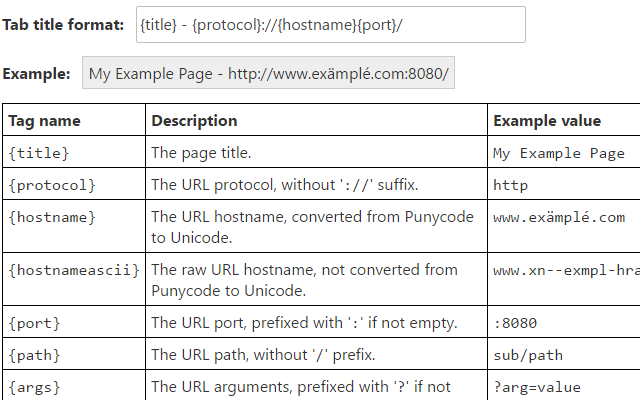
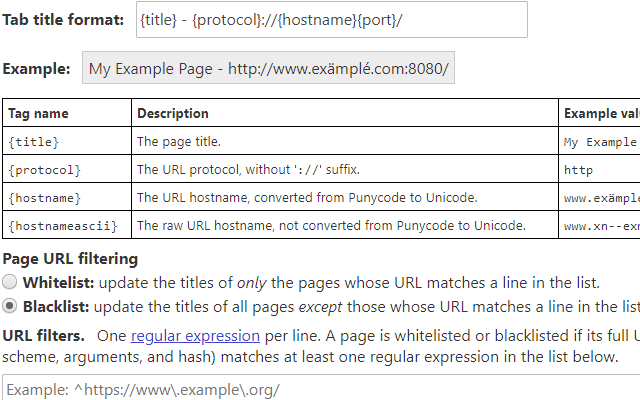
urlintitle - releases version 3.0.0 with URL filtering options

Changed region(s): [[0.0, 0.24, 1.0, 1.0], [0.0, 0.0, 0.8438, 0.21], [0.0, 0.03, 0.1875, 0.09]]

diff --git a/urlintitle/src/options.html b/urlintitle/src/options.html
@@ -6,7 +6,7 @@
   <style>
     body {
       font-size: 16px;
-      min-width: 700px;
+      min-width: 750px;
     }
 
     th, td {
@@ -31,7 +31,24 @@
     }
 
     table {
+      width: 100%;
       border-collapse: collapse;
+      font-size: smaller;
+    }
+
+    .top-separator {
+      margin-top: .5em;
+    }
+
+    input[type="radio"], label.radio {
+      font-weight: normal;
+      vertical-align: middle;
+    }
+
+    textarea {
+      width: 100%;
+      height: 5em;
+      display: block;
     }
 
     #status {
@@ -49,7 +66,7 @@
 
   <p><label>Example:</label> <span id="example"></span></p>
 
-  <table id="tags-table" cellpadding="2" cellspacing="0" border="1" bordercolor="#000">
+  <table id="tags-table" border="1" bordercolor="#000">
   <tr>
     <th>Tag name</th>
     <th>Description</th>
@@ -57,11 +74,32 @@
   </tr>
   </table>
 
-  <p>
-    <button id="restore">Restore to default</button>
+  <div class="top-separator">
+    <b>Page URL filtering</b>
+  </div>
+  <input type="radio" name="url-filter-type"
+         id="url-filter-type-whitelist" value="whitelist">
+  <label for="url-filter-type-whitelist" class="radio">
+    <b>Whitelist:</b> update the titles of <i>only</i> the pages whose URL matches a line in the list.
+  </label>
+  <br>
+  <input type="radio" name="url-filter-type"
+         id="url-filter-type-blacklist" value="blacklist">
+  <label for="url-filter-type-blacklist" class="radio">
+    <b>Blacklist:</b> update the titles of all pages <i>except</i> those whose URL matches a line in the list.
+  </label>
+  <br>
+  <div class="top-separator">
+    <label for="url-filter-regexps">URL filters.</label>
+    One <a href="https://developer.mozilla.org/docs/Web/JavaScript/Reference/Global_Objects/RegExp#Syntax">regular expression</a> per line. A page is whitelisted or blacklisted if its full URL (including scheme, arguments, and hash) matches at least one regular expression in the list below.<br>
+  </div>
+  <textarea class="top-separator" id="url-filter-regexps" placeholder="Example: ^https://www\.example\.org/"></textarea>
+
+  <div class="top-separator">
+    <button id="restore">Reset to default</button>
     <button id="save">Save</button>
     <span id="status"></span>
-  </p>
+  </div>
 
   <script src="options.js"></script>
 </body>

diff --git a/urlintitle/src/background.js b/urlintitle/src/background.js
@@ -13,6 +13,8 @@
 
 var DEFAULT_OPTIONS = {
   format: "{title} - {protocol}://{hostname}{port}/",
+  url_filter_is_whitelist: false,
+  url_filter_regexps: [],
 };
 
 // Name to example value.
@@ -29,6 +31,9 @@ var EXAMPLE_TITLE = "My Example Page";
 
 function normalizeOptions(options) {
   options.format = normalizeTitle(options.format);
+  options.url_filter_is_whitelist = !!options.url_filter_is_whitelist;
+  options.url_filter_regexps =
+      (options.url_filter_regexps || []).filter(regexp => regexp != '');
 }
 
 function getOptions(callback) {
@@ -101,6 +106,16 @@ function formatPageTitle(format, location, title) {
 }
 
 /**
+ * Returns whether the given URL passes the filter (whitelist or blacklist).
+ */
+function shouldProcessUrl(options, url) {
+  const at_least_one_match =
+      options.url_filter_regexps.some(
+          regexp => url.search(new RegExp(regexp)) >= 0);
+  return at_least_one_match == options.url_filter_is_whitelist;
+}
+
+/**
  * previous_formatted_title_suffix: should be the formatted_title_suffix
  *   value returned by the previous call to formatPageTitleUpdate().
  *   Theoretically undefined but usually ok behavior if the format changes
@@ -144,9 +159,12 @@ class RequestHandlers {
 
   static format_title_update(request, sendResponse) {
     getOptions(options =>
-      sendResponse(formatPageTitleUpdate(
-          options.format, request.location, request.title,
-          request.previous_formatted_title_suffix)));
+      sendResponse(
+          shouldProcessUrl(options, request.filtering_url)
+              ? formatPageTitleUpdate(
+                  options.format, request.location, request.title,
+                  request.previous_formatted_title_suffix)
+              : null));
   }
 }
 

diff --git a/urlintitle/src/options.js b/urlintitle/src/options.js
@@ -2,6 +2,8 @@
 
 const lib = chrome.extension.getBackgroundPage();
 
+const REGEXPS_SEPARATOR = '\n';
+
 document.addEventListener('DOMContentLoaded', () => {
   $('restore').addEventListener('click', restoreOptionsToDefault);
   $('save').addEventListener('click', saveOptions);
@@ -31,6 +33,11 @@ function updateExample() {
 function restoreOptions() {
   lib.getOptions(options => {
     $('format').value = options.format;
+    $('url-filter-type-' +
+            (options.url_filter_is_whitelist ? 'whitelist' : 'blacklist'))
+        .checked = true;
+    $('url-filter-regexps').value =
+        (options.url_filter_regexps || []).join(REGEXPS_SEPARATOR);
     updateExample();
   });
 }
@@ -40,9 +47,26 @@ function restoreOptionsToDefault() {
 }
 
 function saveOptions() {
+  // Validate the URL filter regexps.
+  const url_filter_regexps =
+      $('url-filter-regexps').value.split(REGEXPS_SEPARATOR);
+  for (const regexp of url_filter_regexps) {
+    try {
+      new RegExp(regexp);
+    } catch (e) {
+      $('status').textContent =
+          'Invalid URL filter regular expression: ' + regexp;
+      return;
+    }
+  }
+
   lib.setOptions(
-      {format: $('format').value},
-      showOptionsSaved);
+    {
+      format: $('format').value,
+      url_filter_is_whitelist: $('url-filter-type-whitelist').checked,
+      url_filter_regexps: url_filter_regexps,
+    },
+    showOptionsSaved);
 }
 
 function showOptionsSaved() {

diff --git a/urlintitle/src/page_hook.js b/urlintitle/src/page_hook.js
@@ -40,11 +40,17 @@ function updateTitle(constants) {
       {
         name: 'format_title_update',
         location: location_copy,
+        filtering_url: document.location.href,
         title: last_original_title,
         previous_formatted_title_suffix: last_formatted_title_suffix,
       },
-      ({formatted_title, formatted_title_suffix}) =>
-        setFormattedTitle(formatted_title, formatted_title_suffix));
+      result => {
+        if (result) {
+          setFormattedTitle(
+              result.formatted_title,
+              result.formatted_title_suffix);
+        }
+      });
 }
 
 function setFormattedTitle(formatted_title, formatted_title_suffix) {
